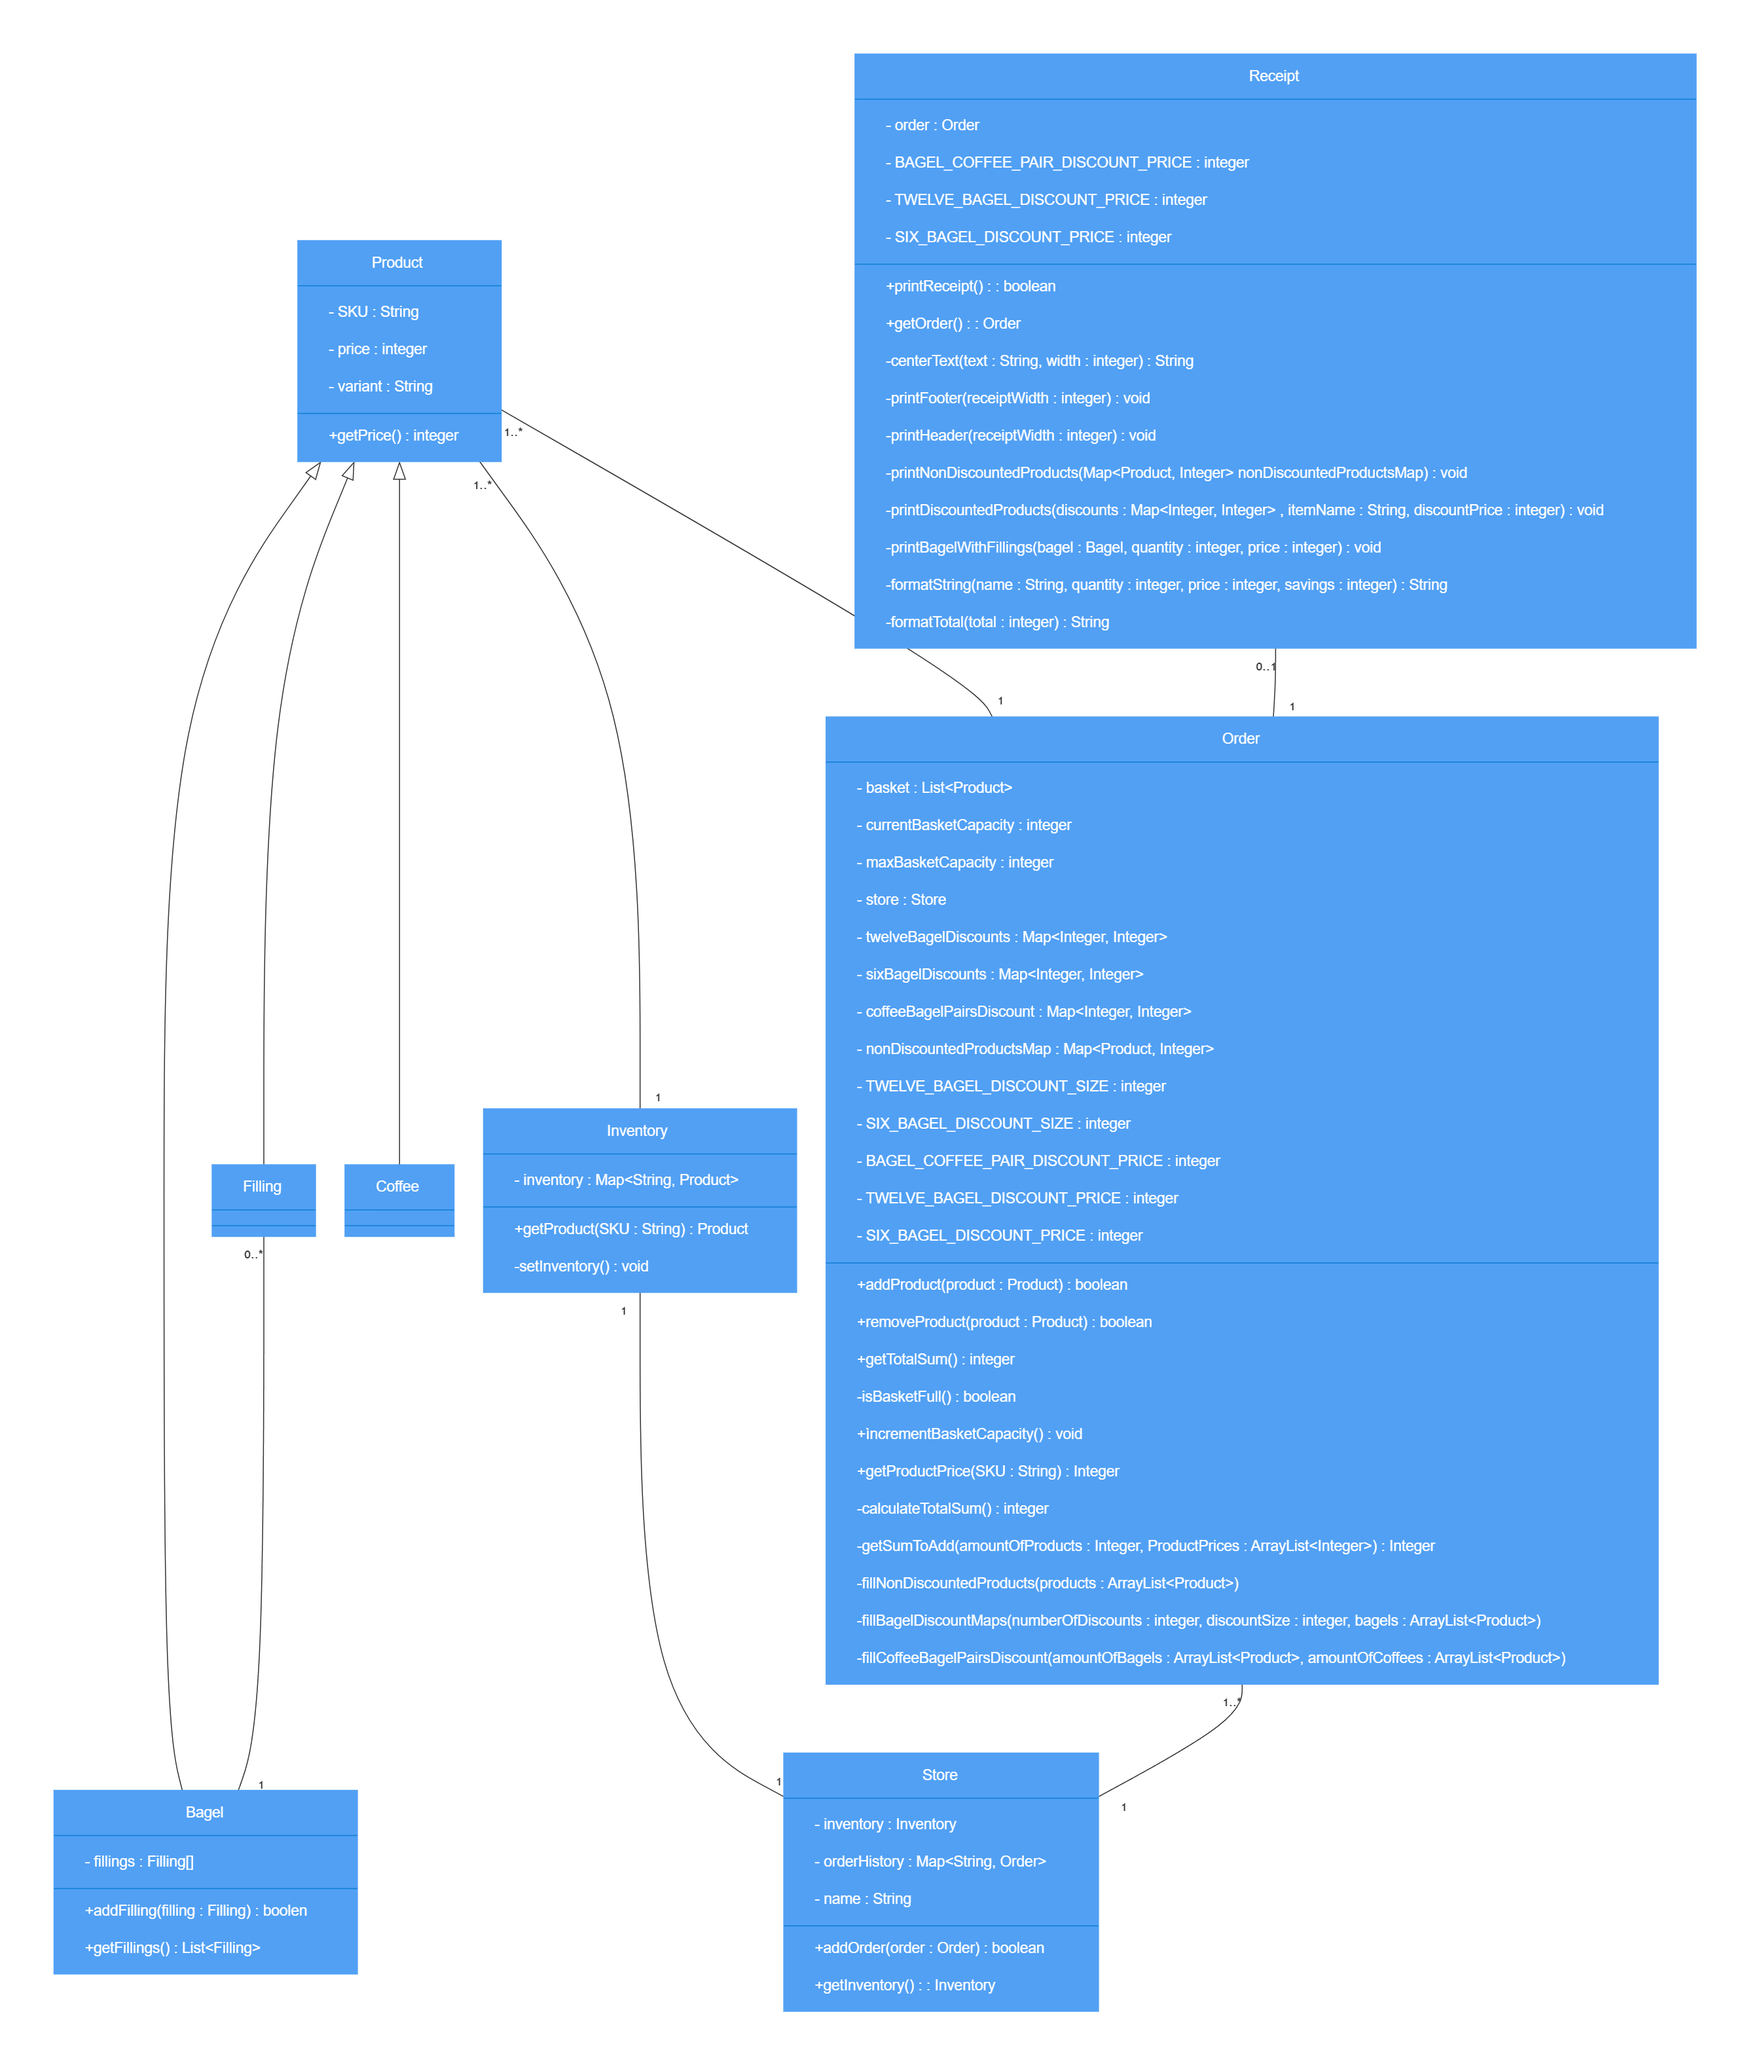
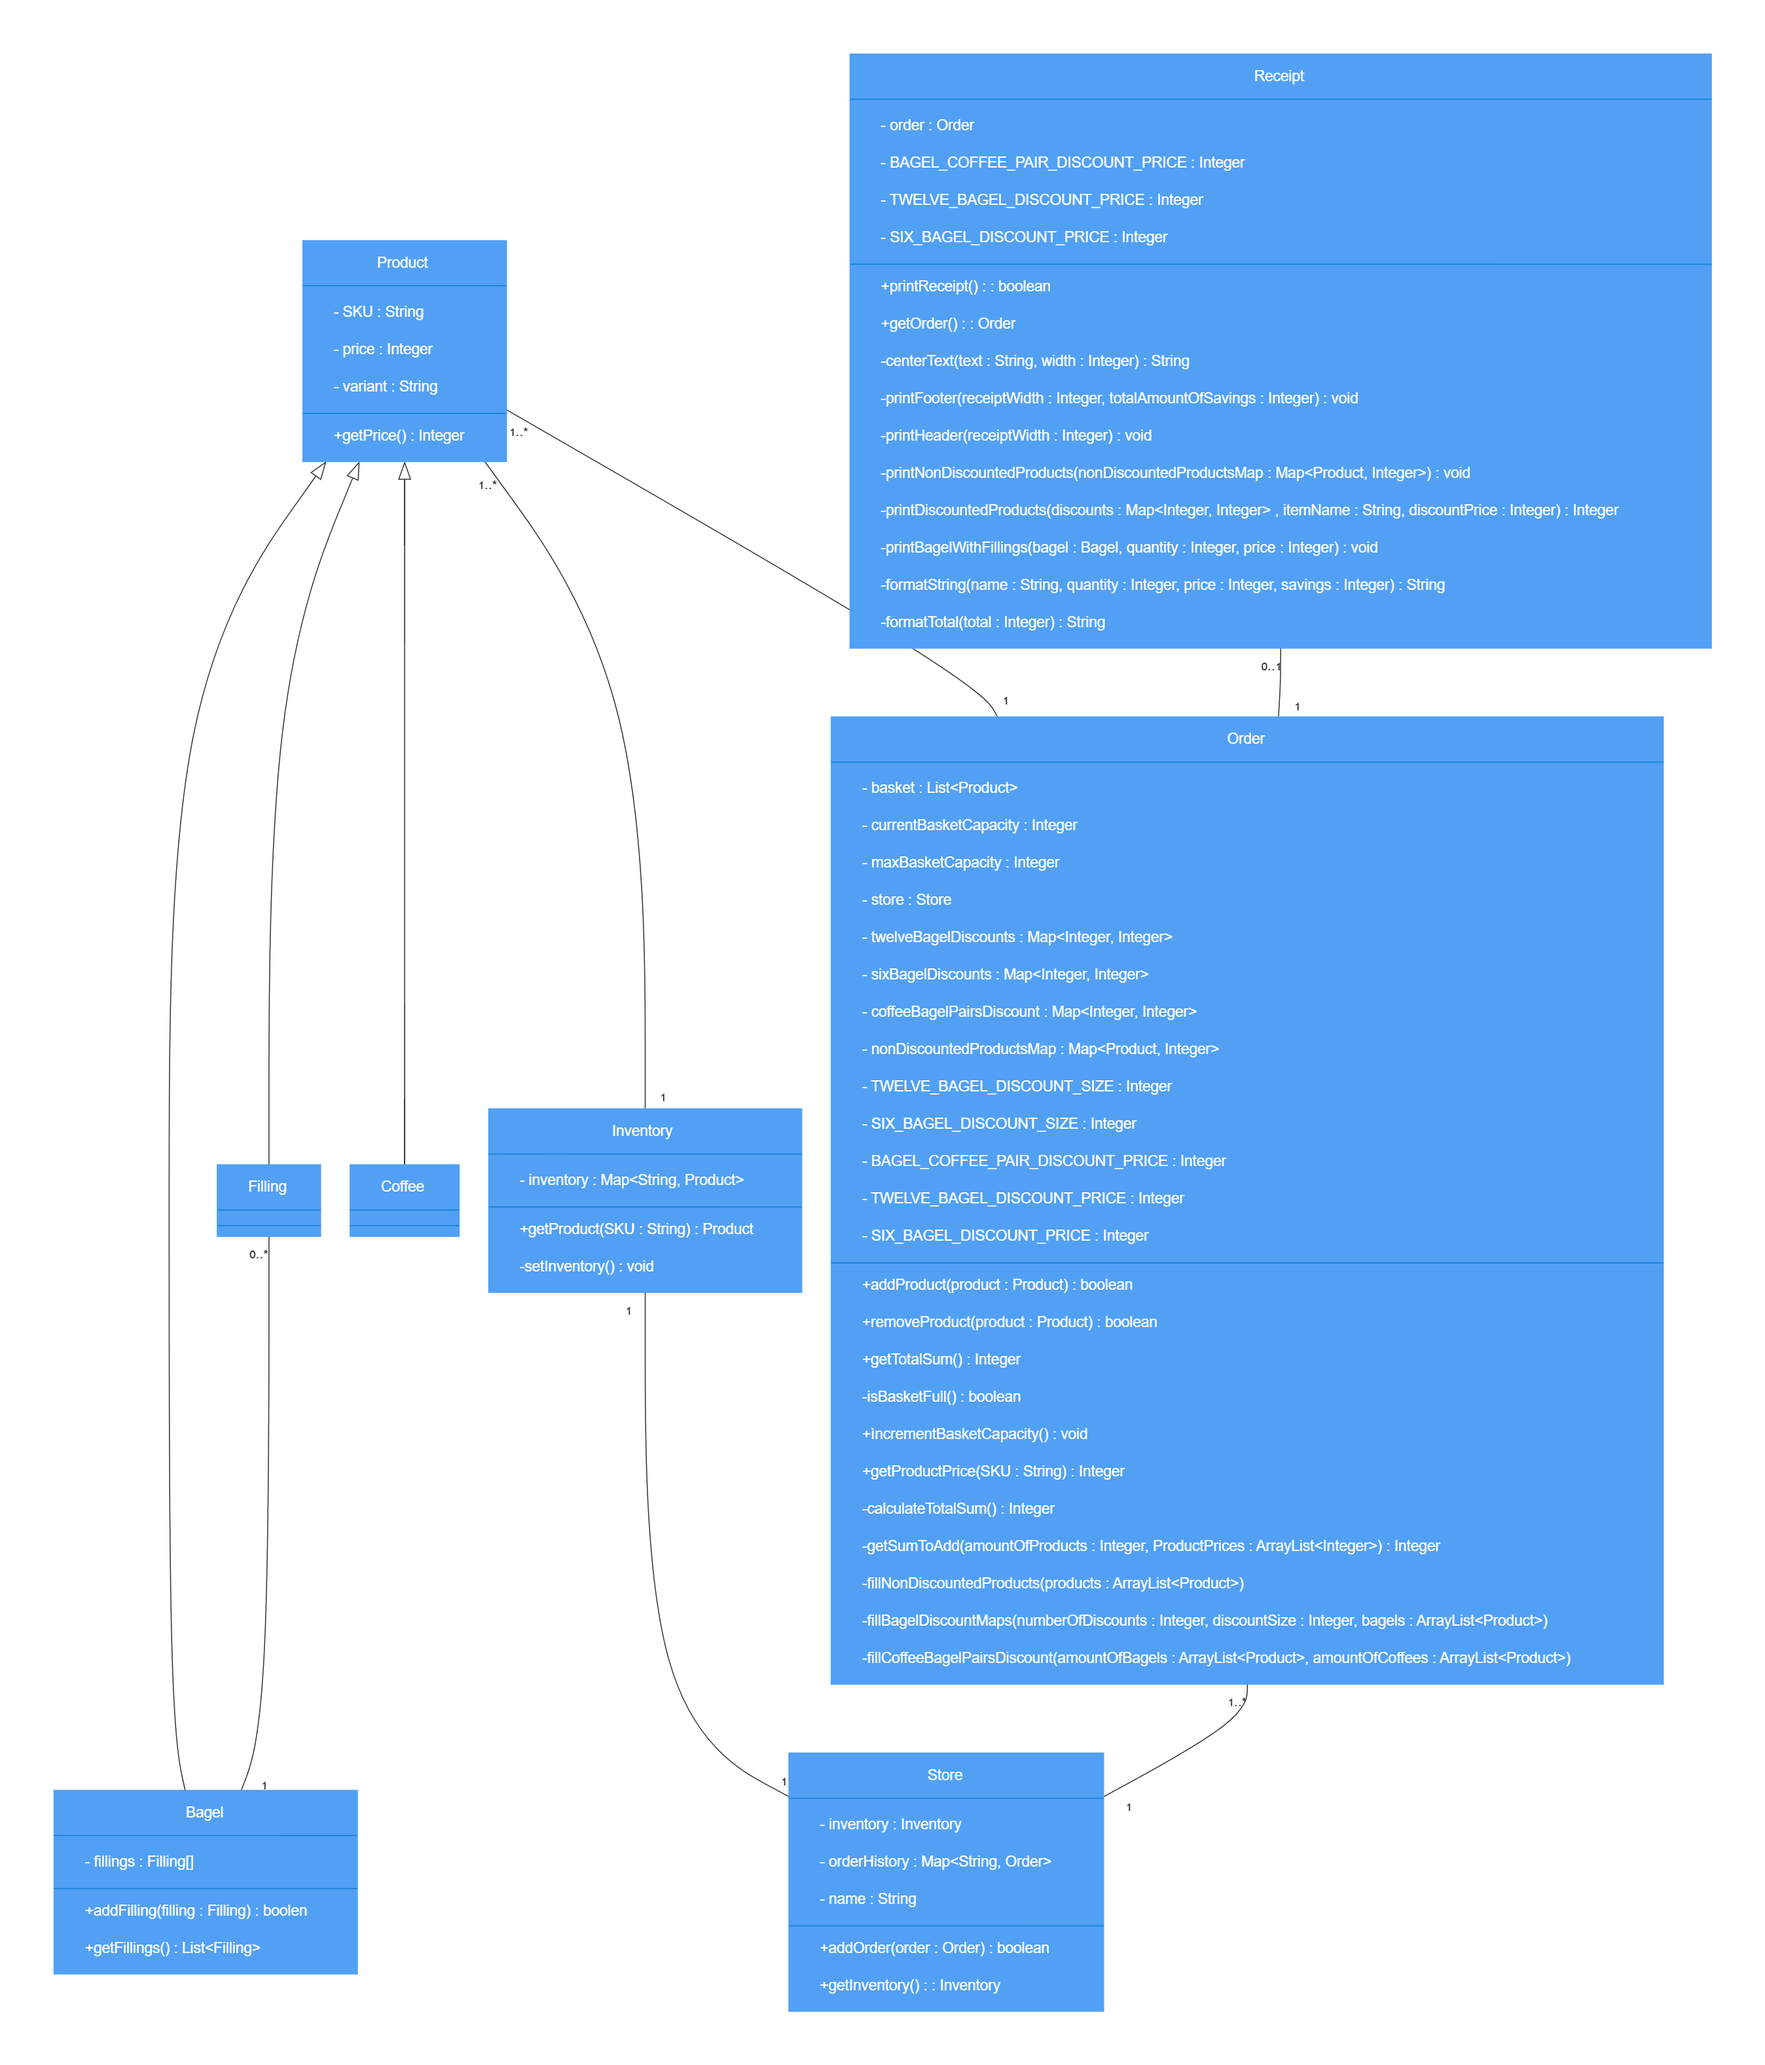
updated the diagram and model to display the added functionality to print the total amount of savings to the receipt

diff --git a/domain-model.md b/domain-model.md
@@ -63,7 +63,7 @@
 |             |                                                           |                                                                                                       |                                                      |                                                                                                     |
 |             |                                                           | `centerText(String text, int width)`                                                                  |                                                      | Center header and footer text on the receipt                                                        |
 |             |                                                           |                                                                                                       |                                                      |                                                                                                     |
-|             |                                                           | `printFooter(int receiptWidth)`                                                                       |                                                      | Print footer to receipt                                                                             |
+|             |                                                           | `printFooter(int receiptWidth, int totalAmountOfSavings)`                                             |                                                      | Print footer to receipt                                                                             |
 |             |                                                           |                                                                                                       |                                                      |                                                                                                     |
 |             |                                                           | `printHeader(int receiptWidth)`                                                                       |                                                      | Print header to receipt                                                                             |
 |             |                                                           |                                                                                                       |                                                      |                                                                                                     |
@@ -112,3 +112,12 @@ I’d like the receipt to include a list of items purchased with their quantitie
 As a customer,
 So that I can see the total amount I need to pay,
 I’d like the receipt to display the total sum of the order.
+
+User Stories for extension 3:
+As a customer,
+So that I can understand the discounts applied,
+I’d like the receipt to show the savings for each bundle of discounted products.
+
+As a customer,
+So that I can see how much I saved,
+I’d like the receipt to display the total savings from discounts.
